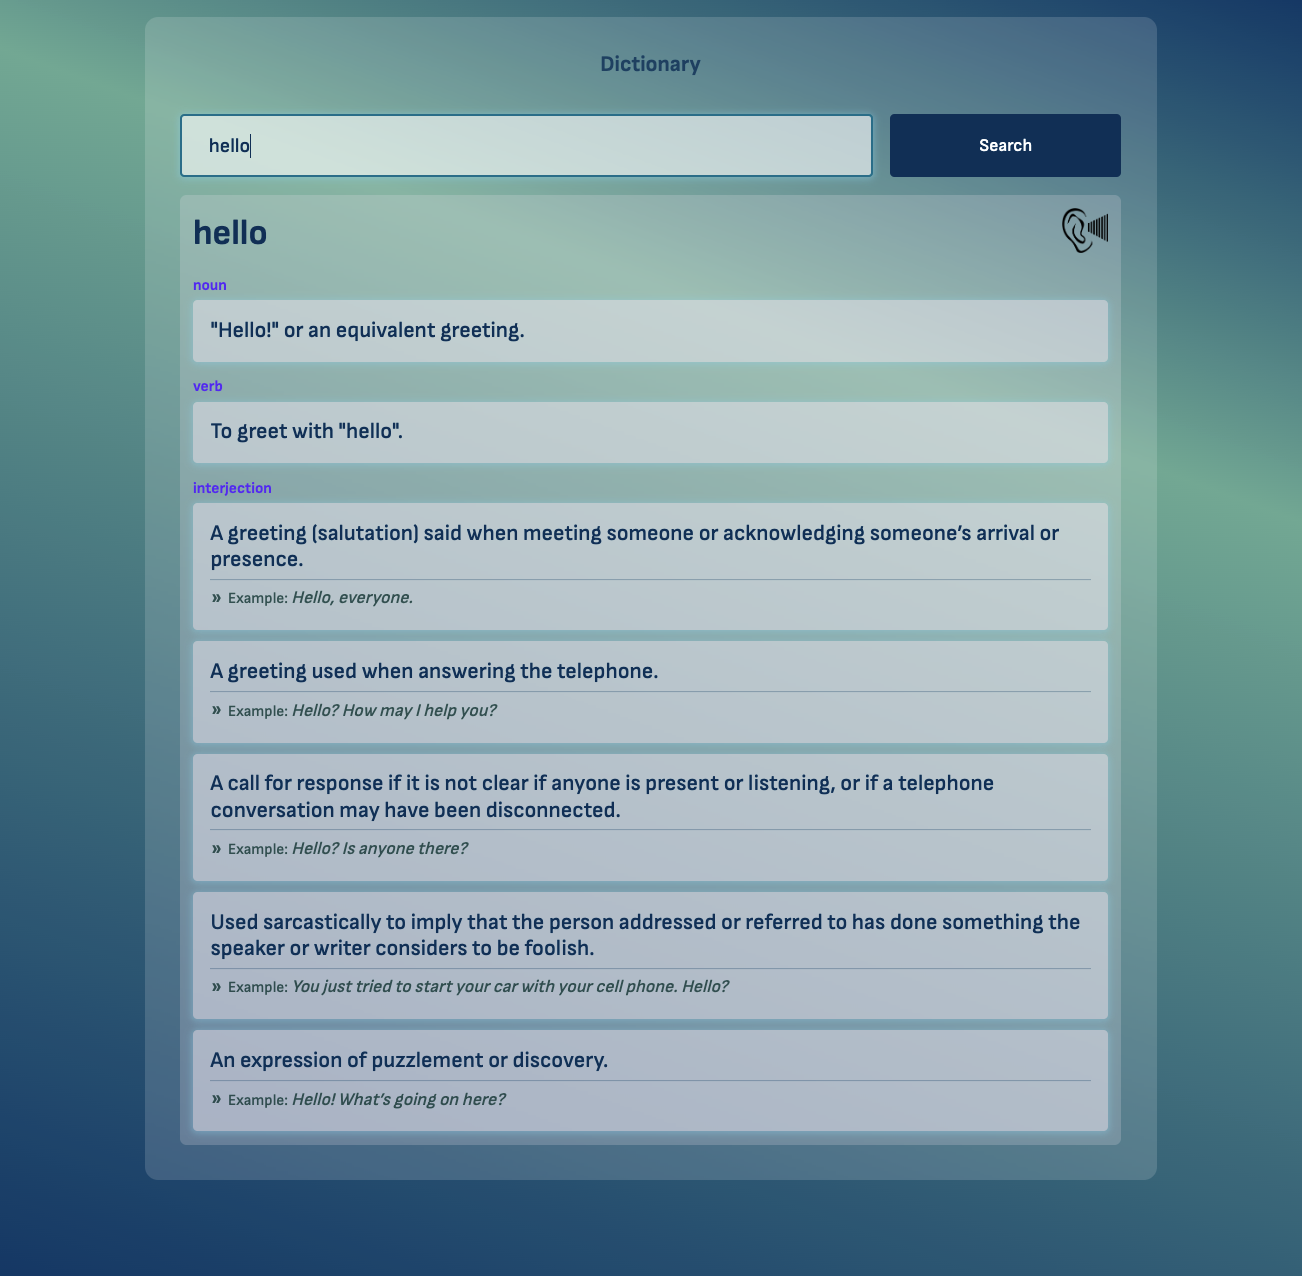
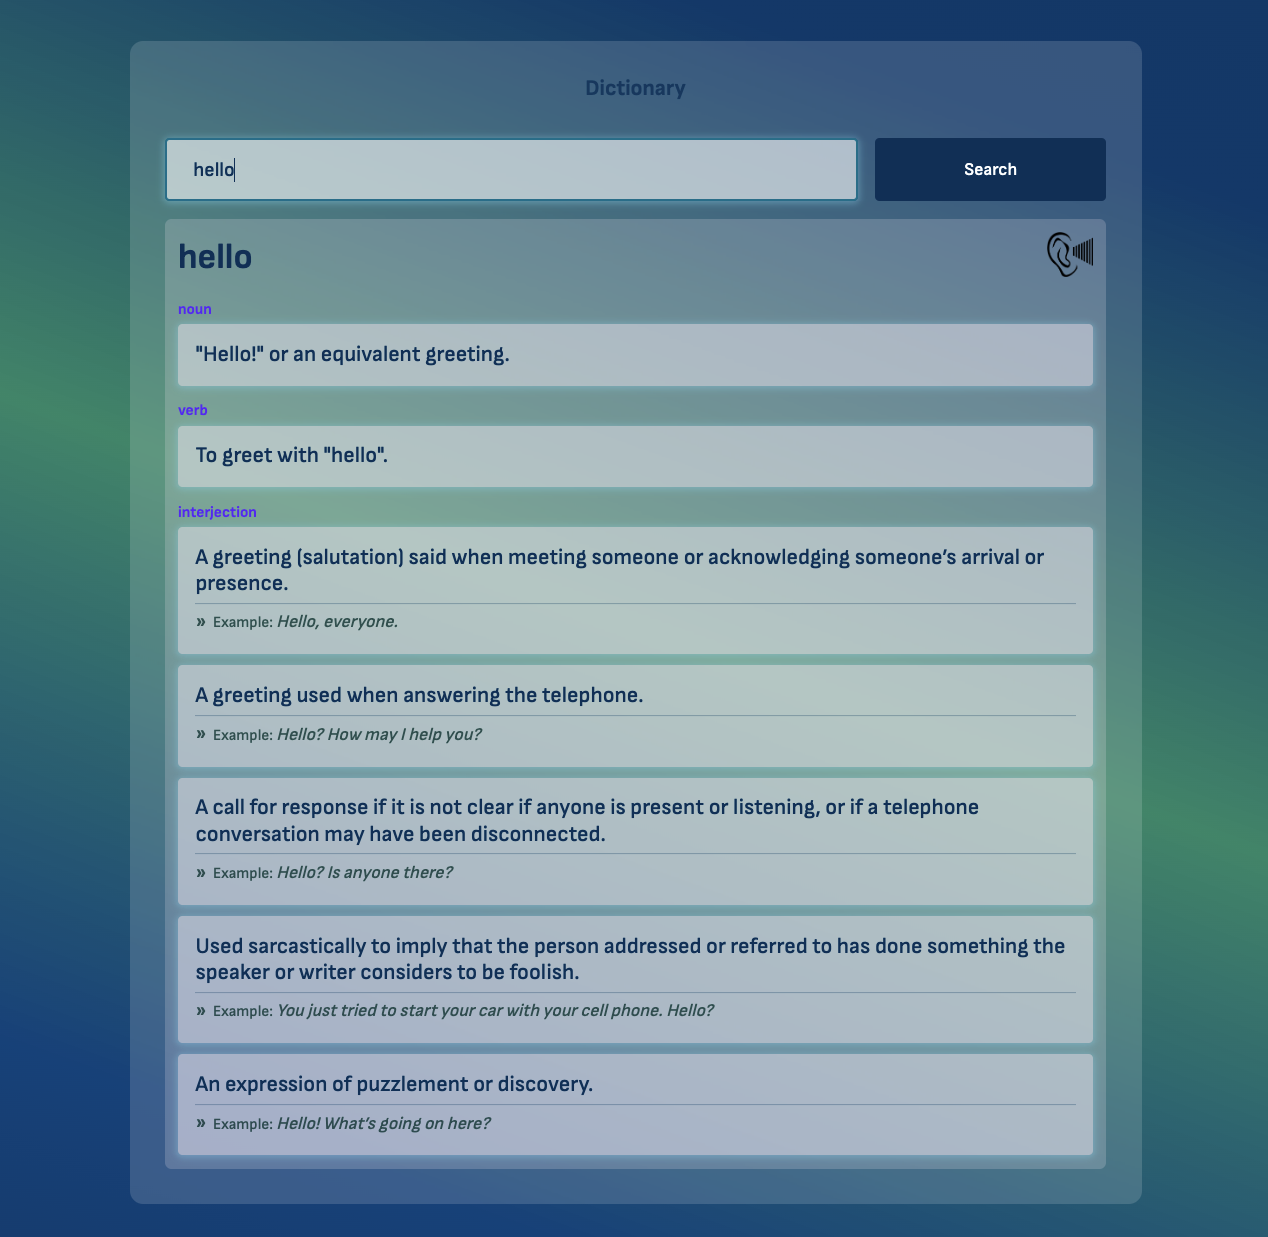
style fix

diff --git a/assets/styles/reset.css b/assets/styles/reset.css
@@ -1,5 +1,5 @@
 body {
-  background: linear-gradient(20deg, #033e72 0%, rgba(6, 123, 84, 0.5725490196) 70%, #033e72 100%);
+  background: linear-gradient(20deg, #033e72 0%, #034986 20%, rgba(6, 123, 84, 0.8235294118) 50%, #013f76 80%, #033e72 100%);
   font-size: 16px;
   font-family: "Sofia Sans", Roboto, sans-serif;
   padding: 0;
@@ -8,7 +8,7 @@ body {
   color: #fff;
   max-width: 100vw;
   min-height: 100vh;
-  padding: 20px 0;
+  padding: 40px 0;
 }
 
 h1,

diff --git a/assets/styles/reset.scss b/assets/styles/reset.scss
@@ -1,5 +1,12 @@
 body {
-  background: linear-gradient(20deg, #033e72 0%, #067b5492 70%, #033e72 100%);
+  background: linear-gradient(
+    20deg,
+    #033e72 0%,
+    #034986 20%,
+    #067b54d2 50%,
+    #013f76 80%,
+    #033e72 100%
+  );
   font-size: 16px;
   font-family: 'Sofia Sans', Roboto, sans-serif;
   padding: 0;
@@ -8,7 +15,7 @@ body {
   color: #fff;
   max-width: 100vw;
   min-height: 100vh;
-  padding: 20px 0;
+  padding: 40px 0;
 }
 
 h1,

diff --git a/assets/styles/styles.css b/assets/styles/styles.css
@@ -135,7 +135,7 @@ h1 {
   font-size: 18px;
   background: rgb(247, 161, 161);
   padding: 16px;
-  color: rgb(74, 74, 74);
+  color: rgb(3, 72, 132);
   border-radius: 4px;
   margin-top: 16px;
   display: none;

diff --git a/assets/styles/styles.scss b/assets/styles/styles.scss
@@ -151,7 +151,7 @@ h1 {
   font-size: 18px;
   background: rgb(247, 161, 161);
   padding: 16px;
-  color: rgb(74, 74, 74);
+  color: rgb(3, 72, 132);
   border-radius: 4px;
   margin-top: 16px;
   display: none;
